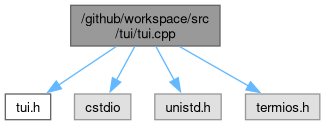
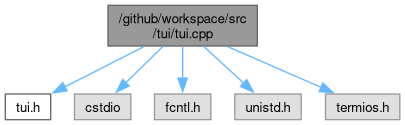
deploy: 4a9d3d7729fd321e3d69942d575e59e9f03a14f3

diff --git a/tui_8h_source.html b/tui_8h_source.html
@@ -125,8 +125,8 @@ $(document).ready(function() { init_codefold(0); });
 <div class="line"><a id="l00035" name="l00035"></a><span class="lineno">   35</span>}</div>
 </div>
 <div class="ttc" id="aclasstui_1_1key__handler_html"><div class="ttname"><a href="classtui_1_1key__handler.html">tui::key_handler</a></div><div class="ttdef"><b>Definition</b> tui.h:26</div></div>
-<div class="ttc" id="aclasstui_1_1key__handler_html_a8de7fc2ceeed568336f6d09a0c728008"><div class="ttname"><a href="classtui_1_1key__handler.html#a8de7fc2ceeed568336f6d09a0c728008">tui::key_handler::handle</a></div><div class="ttdeci">void handle()</div><div class="ttdef"><b>Definition</b> tui.cpp:17</div></div>
-<div class="ttc" id="aclasstui_1_1key__handler_html_abfb3fd302e45639d67158a2ed832c522"><div class="ttname"><a href="classtui_1_1key__handler.html#abfb3fd302e45639d67158a2ed832c522">tui::key_handler::key_handler</a></div><div class="ttdeci">key_handler()</div><div class="ttdef"><b>Definition</b> tui.cpp:6</div></div>
+<div class="ttc" id="aclasstui_1_1key__handler_html_a8de7fc2ceeed568336f6d09a0c728008"><div class="ttname"><a href="classtui_1_1key__handler.html#a8de7fc2ceeed568336f6d09a0c728008">tui::key_handler::handle</a></div><div class="ttdeci">void handle()</div><div class="ttdef"><b>Definition</b> tui.cpp:18</div></div>
+<div class="ttc" id="aclasstui_1_1key__handler_html_abfb3fd302e45639d67158a2ed832c522"><div class="ttname"><a href="classtui_1_1key__handler.html#abfb3fd302e45639d67158a2ed832c522">tui::key_handler::key_handler</a></div><div class="ttdeci">key_handler()</div><div class="ttdef"><b>Definition</b> tui.cpp:7</div></div>
 <div class="ttc" id="anamespacetui_html"><div class="ttname"><a href="namespacetui.html">tui</a></div><div class="ttdef"><b>Definition</b> tui.h:1</div></div>
 <div class="ttc" id="anamespacetui_html_a74aa53265d54835464fdbbd6e243267d"><div class="ttname"><a href="namespacetui.html#a74aa53265d54835464fdbbd6e243267d">tui::keys</a></div><div class="ttdeci">keys</div><div class="ttdef"><b>Definition</b> tui.h:2</div></div>
 <div class="ttc" id="anamespacetui_html_a74aa53265d54835464fdbbd6e243267da008f81a4c5376af7c431770659dc0f1d"><div class="ttname"><a href="namespacetui.html#a74aa53265d54835464fdbbd6e243267da008f81a4c5376af7c431770659dc0f1d">tui::KEY_BS</a></div><div class="ttdeci">@ KEY_BS</div><div class="ttdef"><b>Definition</b> tui.h:3</div></div>
@@ -257,7 +257,7 @@ $(document).ready(function() { init_codefold(0); });
 <div class="ttc" id="anamespacetui_html_a74aa53265d54835464fdbbd6e243267dafc420c796137220f9c694b33425e4bba"><div class="ttname"><a href="namespacetui.html#a74aa53265d54835464fdbbd6e243267dafc420c796137220f9c694b33425e4bba">tui::KEY_NAK</a></div><div class="ttdeci">@ KEY_NAK</div><div class="ttdef"><b>Definition</b> tui.h:4</div></div>
 <div class="ttc" id="anamespacetui_html_a74aa53265d54835464fdbbd6e243267dafcfd32f625081ef7cfc9a019762c90d0"><div class="ttname"><a href="namespacetui.html#a74aa53265d54835464fdbbd6e243267dafcfd32f625081ef7cfc9a019762c90d0">tui::KEY_UPPERCASE_C</a></div><div class="ttdeci">@ KEY_UPPERCASE_C</div><div class="ttdef"><b>Definition</b> tui.h:9</div></div>
 <div class="ttc" id="anamespacetui_html_a74aa53265d54835464fdbbd6e243267daffffe674b415bc640f154a7c2389f343"><div class="ttname"><a href="namespacetui.html#a74aa53265d54835464fdbbd6e243267daffffe674b415bc640f154a7c2389f343">tui::KEY_LOWERCASE_B</a></div><div class="ttdeci">@ KEY_LOWERCASE_B</div><div class="ttdef"><b>Definition</b> tui.h:14</div></div>
-<div class="ttc" id="anamespacetui_html_a846e57585c414fa5f4a7d2a06c17b787"><div class="ttname"><a href="namespacetui.html#a846e57585c414fa5f4a7d2a06c17b787">tui::get_io</a></div><div class="ttdeci">io &amp; get_io()</div><div class="ttdef"><b>Definition</b> tui.cpp:25</div></div>
+<div class="ttc" id="anamespacetui_html_a846e57585c414fa5f4a7d2a06c17b787"><div class="ttname"><a href="namespacetui.html#a846e57585c414fa5f4a7d2a06c17b787">tui::get_io</a></div><div class="ttdeci">io &amp; get_io()</div><div class="ttdef"><b>Definition</b> tui.cpp:26</div></div>
 <div class="ttc" id="astructtui_1_1io_html"><div class="ttname"><a href="structtui_1_1io.html">tui::io</a></div><div class="ttdef"><b>Definition</b> tui.h:20</div></div>
 <div class="ttc" id="astructtui_1_1io_html_a708ac375cb9e95f8c7a00a8f2f95c97c"><div class="ttname"><a href="structtui_1_1io.html#a708ac375cb9e95f8c7a00a8f2f95c97c">tui::io::current_key</a></div><div class="ttdeci">keys current_key</div><div class="ttdef"><b>Definition</b> tui.h:21</div></div>
 </div><!-- fragment --></div><!-- contents -->

diff --git a/tui_8cpp.html b/tui_8cpp.html
@@ -78,6 +78,7 @@ $(function() {
 <div class="contents">
 <div class="textblock"><code>#include &quot;<a class="el" href="tui_8h_source.html">tui.h</a>&quot;</code><br />
 <code>#include &lt;cstdio&gt;</code><br />
+<code>#include &lt;fcntl.h&gt;</code><br />
 <code>#include &lt;unistd.h&gt;</code><br />
 <code>#include &lt;termios.h&gt;</code><br />
 </div><div class="textblock"><div class="dynheader">
@@ -85,15 +86,17 @@ Include dependency graph for tui.cpp:</div>
 <div class="dyncontent">
 <div class="center"><img src="tui_8cpp__incl.png" border="0" usemap="#a_2github_2workspace_2src_2tui_2tui_8cpp" alt=""/></div>
 <map name="a_2github_2workspace_2src_2tui_2tui_8cpp" id="a_2github_2workspace_2src_2tui_2tui_8cpp">
-<area shape="rect" title=" " alt="" coords="71,5,220,46"/>
+<area shape="rect" title=" " alt="" coords="108,5,257,46"/>
 <area shape="rect" href="tui_8h.html" title=" " alt="" coords="5,94,51,120"/>
-<area shape="poly" title=" " alt="" coords="118,49,60,87,57,83,115,44"/>
+<area shape="poly" title=" " alt="" coords="145,49,66,89,64,84,143,44"/>
 <area shape="rect" title=" " alt="" coords="75,94,131,120"/>
-<area shape="poly" title=" " alt="" coords="137,48,119,81,114,79,132,45"/>
-<area shape="rect" title=" " alt="" coords="155,94,221,120"/>
-<area shape="poly" title=" " alt="" coords="158,45,176,79,172,81,154,48"/>
-<area shape="rect" title=" " alt="" coords="246,94,320,120"/>
-<area shape="poly" title=" " alt="" coords="181,44,250,84,247,88,178,49"/>
+<area shape="poly" title=" " alt="" coords="165,48,128,85,124,81,161,45"/>
+<area shape="rect" title=" " alt="" coords="155,94,211,120"/>
+<area shape="poly" title=" " alt="" coords="185,46,185,78,180,78,180,46"/>
+<area shape="rect" title=" " alt="" coords="235,94,301,120"/>
+<area shape="poly" title=" " alt="" coords="206,44,246,81,242,85,202,48"/>
+<area shape="rect" title=" " alt="" coords="326,94,400,120"/>
+<area shape="poly" title=" " alt="" coords="229,44,322,85,320,90,227,49"/>
 </map>
 </div>
 </div></div><!-- contents -->
